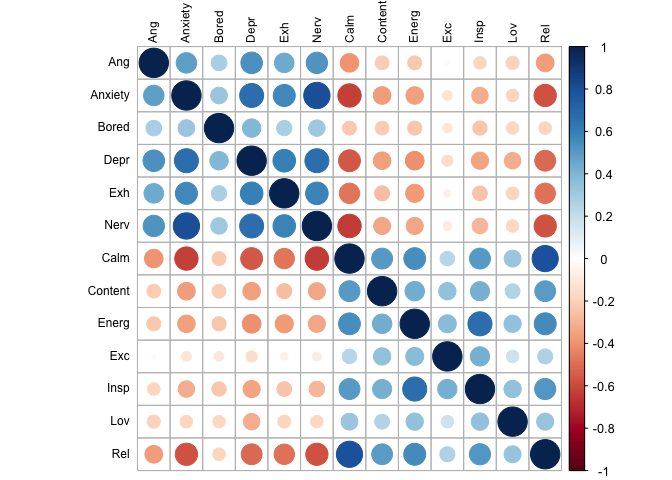
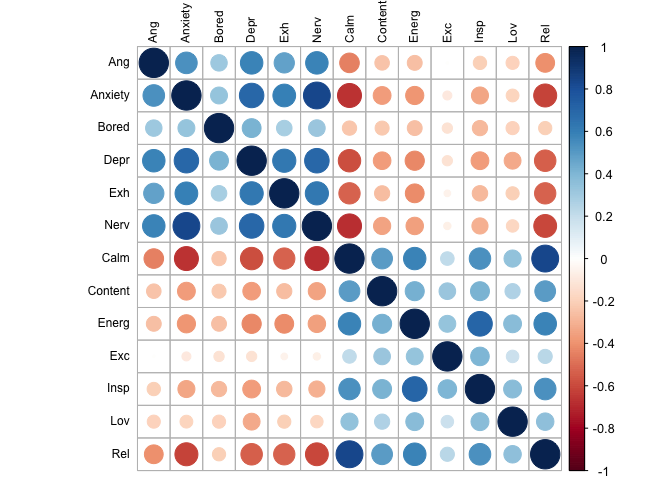
Using data from participants with at least 3 measurements

diff --git a/Factor-analysis.md b/Factor-analysis.md
@@ -1,15 +1,18 @@
-Factor analysis
+Factor analysis between-person
 ================
 Anne Margit
 6/8/2020
 
+This is the confirmatory factor analysis of between-person emotion
+scores (i.e., mean scores across waves)
+
 ``` r
-load("data_long.Rdata")
+load("data_long_min3.Rdata")
 ```
 
 ``` r
-data_long <- as_tibble(data_long)
-data_factor <- data_long %>% select(X, Wave, Ang, Anxiety, Bored, Calm, Content, Depr, Energ, Exc, Exh, Insp, Lov, Nerv, Rel)
+data_long_min3 <- as_tibble(data_long_min3)
+data_factor <- data_long_min3 %>% select(X, Wave, Ang, Anxiety, Bored, Calm, Content, Depr, Energ, Exc, Exh, Insp, Lov, Nerv, Rel)
 ```
 
 ``` r
@@ -37,36 +40,36 @@ round(cor(data_means[,c("Ang", "Anxiety", "Bored", "Depr","Exh","Nerv","Calm", "
 ```
 
     ##           Ang Anxiety Bored  Depr   Exh  Nerv  Calm Content Energ   Exc  Insp
-    ## Ang      1.00    0.48  0.28  0.54  0.44  0.53 -0.40   -0.22 -0.23 -0.02 -0.18
-    ## Anxiety  0.48    1.00  0.32  0.66  0.56  0.80 -0.63   -0.36 -0.36 -0.11 -0.31
-    ## Bored    0.28    0.32  1.00  0.39  0.27  0.31 -0.22   -0.22 -0.23 -0.10 -0.24
-    ## Depr     0.54    0.66  0.39  1.00  0.59  0.67 -0.55   -0.36 -0.40 -0.14 -0.34
-    ## Exh      0.44    0.56  0.27  0.59  1.00  0.59 -0.48   -0.26 -0.38 -0.06 -0.25
-    ## Nerv     0.53    0.80  0.31  0.67  0.59  1.00 -0.63   -0.33 -0.34 -0.09 -0.28
-    ## Calm    -0.40   -0.63 -0.22 -0.55 -0.48 -0.63  1.00    0.51  0.55  0.24  0.51
-    ## Content -0.22   -0.36 -0.22 -0.36 -0.26 -0.33  0.51    1.00  0.44  0.35  0.42
-    ## Energ   -0.23   -0.36 -0.23 -0.40 -0.38 -0.34  0.55    0.44  1.00  0.37  0.67
-    ## Exc     -0.02   -0.11 -0.10 -0.14 -0.06 -0.09  0.24    0.35  0.37  1.00  0.43
-    ## Insp    -0.18   -0.31 -0.24 -0.34 -0.25 -0.28  0.51    0.42  0.67  0.43  1.00
-    ## Lov     -0.20   -0.18 -0.18 -0.32 -0.19 -0.18  0.33    0.25  0.35  0.18  0.35
-    ## Rel     -0.36   -0.58 -0.18 -0.50 -0.48 -0.57  0.79    0.50  0.56  0.26  0.52
+    ## Ang      1.00    0.54  0.31  0.58  0.48  0.59 -0.44   -0.24 -0.26  0.00 -0.21
+    ## Anxiety  0.54    1.00  0.33  0.69  0.60  0.84 -0.67   -0.37 -0.38 -0.09 -0.34
+    ## Bored    0.31    0.33  1.00  0.41  0.28  0.32 -0.24   -0.23 -0.26 -0.12 -0.27
+    ## Depr     0.58    0.69  0.41  1.00  0.62  0.70 -0.58   -0.36 -0.43 -0.12 -0.37
+    ## Exh      0.48    0.60  0.28  0.62  1.00  0.62 -0.52   -0.27 -0.41 -0.05 -0.28
+    ## Nerv     0.59    0.84  0.32  0.70  0.62  1.00 -0.67   -0.34 -0.35 -0.06 -0.30
+    ## Calm    -0.44   -0.67 -0.24 -0.58 -0.52 -0.67  1.00    0.50  0.58  0.21  0.53
+    ## Content -0.24   -0.37 -0.23 -0.36 -0.27 -0.34  0.50    1.00  0.42  0.32  0.42
+    ## Energ   -0.26   -0.38 -0.26 -0.43 -0.41 -0.35  0.58    0.42  1.00  0.33  0.70
+    ## Exc      0.00   -0.09 -0.12 -0.12 -0.05 -0.06  0.21    0.32  0.33  1.00  0.40
+    ## Insp    -0.21   -0.34 -0.27 -0.37 -0.28 -0.30  0.53    0.42  0.70  0.40  1.00
+    ## Lov     -0.20   -0.19 -0.20 -0.33 -0.20 -0.18  0.34    0.27  0.37  0.18  0.37
+    ## Rel     -0.41   -0.61 -0.20 -0.53 -0.53 -0.60  0.84    0.50  0.59  0.23  0.54
     ##           Lov   Rel
-    ## Ang     -0.20 -0.36
-    ## Anxiety -0.18 -0.58
-    ## Bored   -0.18 -0.18
-    ## Depr    -0.32 -0.50
-    ## Exh     -0.19 -0.48
-    ## Nerv    -0.18 -0.57
-    ## Calm     0.33  0.79
-    ## Content  0.25  0.50
-    ## Energ    0.35  0.56
-    ## Exc      0.18  0.26
-    ## Insp     0.35  0.52
-    ## Lov      1.00  0.33
-    ## Rel      0.33  1.00
+    ## Ang     -0.20 -0.41
+    ## Anxiety -0.19 -0.61
+    ## Bored   -0.20 -0.20
+    ## Depr    -0.33 -0.53
+    ## Exh     -0.20 -0.53
+    ## Nerv    -0.18 -0.60
+    ## Calm     0.34  0.84
+    ## Content  0.27  0.50
+    ## Energ    0.37  0.59
+    ## Exc      0.18  0.23
+    ## Insp     0.37  0.54
+    ## Lov      1.00  0.35
+    ## Rel      0.35  1.00
 
 ``` r
-corrplot(cor(data_means[,c("Ang", "Anxiety", "Bored", "Depr","Exh","Nerv","Calm", "Content","Energ","Exc", "Insp", "Lov","Rel")], use="complete.obs"), order = "original", tl.col='black', tl.cex=.75) 
+corrplot(cor(data_means[,c("Ang", "Anxiety", "Bored", "Depr","Exh","Nerv","Calm", "Content","Energ","Exc", "Insp", "Lov","Rel")], use="complete.obs"), order = "original", tl.col='black', tl.cex=.75)
 ```
 
 ![](Factor-analysis_files/figure-gfm/unnamed-chunk-5-1.png)<!-- -->
@@ -117,61 +120,54 @@ f1 ~~ f2
 
 ``` r
 fit <- cfa(model, data = data_means, std.lv=TRUE, missing="fiml")
-```
-
-    ## Warning in lav_data_full(data = data, group = group, cluster = cluster, : lavaan WARNING: some cases are empty and will be ignored:
-    ##   15 76 1002 1204 1234 1242 1432 1469 1844 1931 1993 2189 2209 2288 2355 2476 2497 2964 3874 4169 4300 4941 5713 5982 6658 7620 7688 7725 7914 9421 9963 10117 11590 13597 14939 15255 16542 16795 17229 17783 18237 18835 19645 19713 20045 20202 20239 20413 20426 21313 22323 23691 24471 24473 24554 26087 26344 28338 28758 30689 31397 32441 32691 32830 34369 34510 35118 35262 35310 36038 36820 37238 37418 37621 37703 38339 38979 42451 44315 44522 44634 45188 45972 46370 46444 46466 46813 48229 48370 49114 49208 49330 49787 52340 52547 53204 53291 53749 54719 55063 55515 55824 55926 58806 59054 59342 59422 59885 60421 60461 60685 61001
-
-``` r
 summary(fit, standardized=TRUE, fit.measures=TRUE)
 ```
 
-    ## lavaan 0.6-6 ended normally after 36 iterations
+    ## lavaan 0.6-6 ended normally after 41 iterations
     ## 
     ##   Estimator                                         ML
     ##   Optimization method                           NLMINB
     ##   Number of free parameters                         40
     ##                                                       
-    ##                                                   Used       Total
-    ##   Number of observations                         62030       62142
-    ##   Number of missing patterns                       508            
-    ##                                                                   
+    ##   Number of observations                          9752
+    ##   Number of missing patterns                        13
+    ##                                                       
     ## Model Test User Model:
-    ##                                                        
-    ##   Test statistic                              25139.091
-    ##   Degrees of freedom                                 64
-    ##   P-value (Chi-square)                            0.000
+    ##                                                       
+    ##   Test statistic                              8959.250
+    ##   Degrees of freedom                                64
+    ##   P-value (Chi-square)                           0.000
     ## 
     ## Model Test Baseline Model:
     ## 
-    ##   Test statistic                            249094.988
+    ##   Test statistic                             72242.926
     ##   Degrees of freedom                                78
     ##   P-value                                        0.000
     ## 
     ## User Model versus Baseline Model:
     ## 
-    ##   Comparative Fit Index (CFI)                    0.899
-    ##   Tucker-Lewis Index (TLI)                       0.877
+    ##   Comparative Fit Index (CFI)                    0.877
+    ##   Tucker-Lewis Index (TLI)                       0.850
     ## 
     ## Loglikelihood and Information Criteria:
     ## 
-    ##   Loglikelihood user model (H0)            -974342.078
-    ##   Loglikelihood unrestricted model (H1)    -961772.533
+    ##   Loglikelihood user model (H0)            -143435.167
+    ##   Loglikelihood unrestricted model (H1)    -138955.542
     ##                                                       
-    ##   Akaike (AIC)                             1948764.156
-    ##   Bayesian (BIC)                           1949125.571
-    ##   Sample-size adjusted Bayesian (BIC)      1948998.450
+    ##   Akaike (AIC)                              286950.335
+    ##   Bayesian (BIC)                            287237.744
+    ##   Sample-size adjusted Bayesian (BIC)       287110.630
     ## 
     ## Root Mean Square Error of Approximation:
     ## 
-    ##   RMSEA                                          0.079
-    ##   90 Percent confidence interval - lower         0.079
-    ##   90 Percent confidence interval - upper         0.080
+    ##   RMSEA                                          0.119
+    ##   90 Percent confidence interval - lower         0.117
+    ##   90 Percent confidence interval - upper         0.121
     ##   P-value RMSEA <= 0.05                          0.000
     ## 
     ## Standardized Root Mean Square Residual:
     ## 
-    ##   SRMR                                           0.059
+    ##   SRMR                                           0.064
     ## 
     ## Parameter Estimates:
     ## 
@@ -182,41 +178,41 @@ summary(fit, standardized=TRUE, fit.measures=TRUE)
     ## Latent Variables:
     ##                    Estimate  Std.Err  z-value  P(>|z|)   Std.lv  Std.all
     ##   f1 =~                                                                 
-    ##     Ang               0.703    0.008   89.308    0.000    0.703    0.657
-    ##     Anxiety           0.943    0.004  217.253    0.000    0.943    0.788
-    ##     Bored             0.541    0.005  100.193    0.000    0.541    0.419
-    ##     Depr              0.846    0.004  196.049    0.000    0.846    0.735
-    ##     Exh               0.702    0.005  152.364    0.000    0.702    0.602
-    ##     Nerv              0.921    0.004  220.049    0.000    0.921    0.796
+    ##     Ang               0.619    0.009   69.512    0.000    0.619    0.646
+    ##     Anxiety           0.895    0.008  111.154    0.000    0.895    0.893
+    ##     Bored             0.430    0.011   39.049    0.000    0.430    0.394
+    ##     Depr              0.756    0.008   93.051    0.000    0.756    0.800
+    ##     Exh               0.686    0.009   77.597    0.000    0.686    0.703
+    ##     Nerv              0.865    0.008  113.437    0.000    0.865    0.904
     ##   f2 =~                                                                 
-    ##     Calm              0.767    0.004  193.548    0.000    0.767    0.736
-    ##     Content           0.717    0.004  166.682    0.000    0.717    0.651
-    ##     Energ             0.693    0.004  168.235    0.000    0.693    0.663
-    ##     Exc               0.532    0.005  114.593    0.000    0.532    0.483
-    ##     Insp              0.667    0.004  151.658    0.000    0.667    0.612
-    ##     Lov               0.507    0.009   55.416    0.000    0.507    0.460
-    ##     Rel               0.799    0.004  200.042    0.000    0.799    0.752
+    ##     Calm              0.782    0.007  114.973    0.000    0.782    0.914
+    ##     Content           0.618    0.011   58.617    0.000    0.618    0.565
+    ##     Energ             0.582    0.008   73.261    0.000    0.582    0.677
+    ##     Exc               0.301    0.011   27.507    0.000    0.301    0.286
+    ##     Insp              0.564    0.008   66.901    0.000    0.564    0.632
+    ##     Lov               0.417    0.010   40.162    0.000    0.417    0.405
+    ##     Rel               0.785    0.007  112.282    0.000    0.785    0.900
     ## 
     ## Covariances:
     ##                    Estimate  Std.Err  z-value  P(>|z|)   Std.lv  Std.all
     ##   f1 ~~                                                                 
-    ##     f2               -0.567    0.004 -156.317    0.000   -0.567   -0.567
+    ##     f2               -0.750    0.005 -139.381    0.000   -0.750   -0.750
     ## 
     ## Intercepts:
     ##                    Estimate  Std.Err  z-value  P(>|z|)   Std.lv  Std.all
-    ##    .Ang               2.113    0.007  295.609    0.000    2.113    1.976
-    ##    .Anxiety           2.674    0.005  554.925    0.000    2.674    2.235
-    ##    .Bored             2.699    0.005  518.156    0.000    2.699    2.090
-    ##    .Depr              2.221    0.005  478.867    0.000    2.221    1.930
-    ##    .Exh               2.498    0.005  530.763    0.000    2.498    2.141
-    ##    .Nerv              2.545    0.005  545.629    0.000    2.545    2.198
-    ##    .Calm              2.949    0.004  702.934    0.000    2.949    2.832
-    ##    .Content           2.670    0.004  600.171    0.000    2.670    2.422
-    ##    .Energ             2.598    0.004  615.997    0.000    2.598    2.484
-    ##    .Exc               2.143    0.004  481.629    0.000    2.143    1.947
-    ##    .Insp              2.453    0.004  557.911    0.000    2.453    2.251
-    ##    .Lov               3.350    0.008  419.599    0.000    3.350    3.040
-    ##    .Rel               2.768    0.004  646.485    0.000    2.768    2.606
+    ##    .Ang               1.999    0.010  206.033    0.000    1.999    2.087
+    ##    .Anxiety           2.475    0.010  243.984    0.000    2.475    2.471
+    ##    .Bored             2.282    0.011  206.258    0.000    2.282    2.090
+    ##    .Depr              2.068    0.010  216.295    0.000    2.068    2.190
+    ##    .Exh               2.378    0.010  240.666    0.000    2.378    2.437
+    ##    .Nerv              2.344    0.010  241.949    0.000    2.344    2.450
+    ##    .Calm              3.028    0.009  349.554    0.000    3.028    3.540
+    ##    .Content           2.639    0.011  237.547    0.000    2.639    2.411
+    ##    .Energ             2.600    0.009  298.406    0.000    2.600    3.022
+    ##    .Exc               1.998    0.011  186.498    0.000    1.998    1.896
+    ##    .Insp              2.437    0.009  269.242    0.000    2.437    2.727
+    ##    .Lov               3.404    0.010  326.594    0.000    3.404    3.308
+    ##    .Rel               2.840    0.009  321.622    0.000    2.840    3.257
     ##     f1                0.000                               0.000    0.000
     ##     f2                0.000                               0.000    0.000
     ## 
@@ -224,19 +220,19 @@ summary(fit, standardized=TRUE, fit.measures=TRUE)
     ##                    Estimate  Std.Err  z-value  P(>|z|)   Std.lv  Std.all
     ##     f1                1.000                               1.000    1.000
     ##     f2                1.000                               1.000    1.000
-    ##    .Ang               0.650    0.008   79.950    0.000    0.650    0.568
-    ##    .Anxiety           0.543    0.004  123.165    0.000    0.543    0.379
-    ##    .Bored             1.375    0.008  168.403    0.000    1.375    0.825
-    ##    .Depr              0.609    0.005  135.318    0.000    0.609    0.460
-    ##    .Exh               0.868    0.006  156.952    0.000    0.868    0.638
-    ##    .Nerv              0.491    0.004  119.901    0.000    0.491    0.367
-    ##    .Calm              0.497    0.004  129.862    0.000    0.497    0.458
-    ##    .Content           0.701    0.005  149.686    0.000    0.701    0.577
-    ##    .Energ             0.613    0.004  144.169    0.000    0.613    0.561
-    ##    .Exc               0.929    0.006  162.262    0.000    0.929    0.767
-    ##    .Insp              0.743    0.005  150.509    0.000    0.743    0.626
-    ##    .Lov               0.957    0.011   86.482    0.000    0.957    0.788
-    ##    .Rel               0.490    0.004  126.824    0.000    0.490    0.434
+    ##    .Ang               0.534    0.008   65.734    0.000    0.534    0.582
+    ##    .Anxiety           0.203    0.004   48.040    0.000    0.203    0.202
+    ##    .Bored             1.007    0.015   68.746    0.000    1.007    0.845
+    ##    .Depr              0.320    0.005   58.787    0.000    0.320    0.360
+    ##    .Exh               0.481    0.008   64.145    0.000    0.481    0.506
+    ##    .Nerv              0.166    0.004   44.851    0.000    0.166    0.182
+    ##    .Calm              0.121    0.003   39.946    0.000    0.121    0.165
+    ##    .Content           0.815    0.012   66.850    0.000    0.815    0.681
+    ##    .Energ             0.401    0.006   63.932    0.000    0.401    0.542
+    ##    .Exc               1.019    0.015   68.965    0.000    1.019    0.918
+    ##    .Insp              0.480    0.007   65.071    0.000    0.480    0.601
+    ##    .Lov               0.885    0.013   68.651    0.000    0.885    0.836
+    ##    .Rel               0.145    0.003   45.410    0.000    0.145    0.191
 
 ``` r
 parameterEstimates(fit, standardized=TRUE) %>% 
@@ -247,18 +243,18 @@ parameterEstimates(fit, standardized=TRUE) %>%
 
 | Latent Factor | Indicator |     B |    SE |       Z | p-value |  Beta |
 | :------------ | :-------- | ----: | ----: | ------: | ------: | ----: |
-| f1            | Ang       | 0.703 | 0.008 |  89.308 |       0 | 0.657 |
-| f1            | Anxiety   | 0.943 | 0.004 | 217.253 |       0 | 0.788 |
-| f1            | Bored     | 0.541 | 0.005 | 100.193 |       0 | 0.419 |
-| f1            | Depr      | 0.846 | 0.004 | 196.049 |       0 | 0.735 |
-| f1            | Exh       | 0.702 | 0.005 | 152.364 |       0 | 0.602 |
-| f1            | Nerv      | 0.921 | 0.004 | 220.049 |       0 | 0.796 |
-| f2            | Calm      | 0.767 | 0.004 | 193.548 |       0 | 0.736 |
-| f2            | Content   | 0.717 | 0.004 | 166.682 |       0 | 0.651 |
-| f2            | Energ     | 0.693 | 0.004 | 168.235 |       0 | 0.663 |
-| f2            | Exc       | 0.532 | 0.005 | 114.593 |       0 | 0.483 |
-| f2            | Insp      | 0.667 | 0.004 | 151.658 |       0 | 0.612 |
-| f2            | Lov       | 0.507 | 0.009 |  55.416 |       0 | 0.460 |
-| f2            | Rel       | 0.799 | 0.004 | 200.042 |       0 | 0.752 |
+| f1            | Ang       | 0.619 | 0.009 |  69.512 |       0 | 0.646 |
+| f1            | Anxiety   | 0.895 | 0.008 | 111.154 |       0 | 0.893 |
+| f1            | Bored     | 0.430 | 0.011 |  39.049 |       0 | 0.394 |
+| f1            | Depr      | 0.756 | 0.008 |  93.051 |       0 | 0.800 |
+| f1            | Exh       | 0.686 | 0.009 |  77.597 |       0 | 0.703 |
+| f1            | Nerv      | 0.865 | 0.008 | 113.437 |       0 | 0.904 |
+| f2            | Calm      | 0.782 | 0.007 | 114.973 |       0 | 0.914 |
+| f2            | Content   | 0.618 | 0.011 |  58.617 |       0 | 0.565 |
+| f2            | Energ     | 0.582 | 0.008 |  73.261 |       0 | 0.677 |
+| f2            | Exc       | 0.301 | 0.011 |  27.507 |       0 | 0.286 |
+| f2            | Insp      | 0.564 | 0.008 |  66.901 |       0 | 0.632 |
+| f2            | Lov       | 0.417 | 0.010 |  40.162 |       0 | 0.405 |
+| f2            | Rel       | 0.785 | 0.007 | 112.282 |       0 | 0.900 |
 
 Factor Loadings
